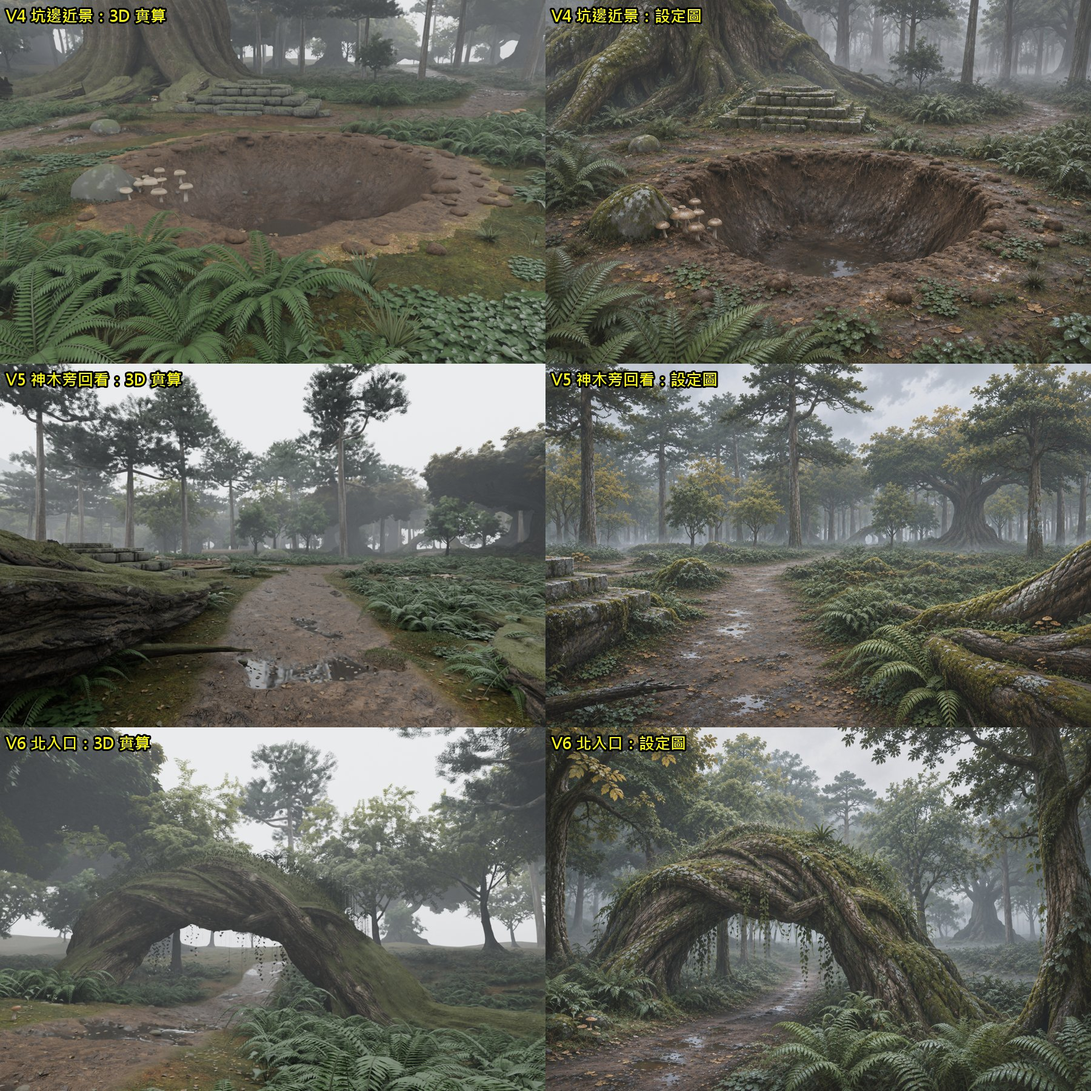
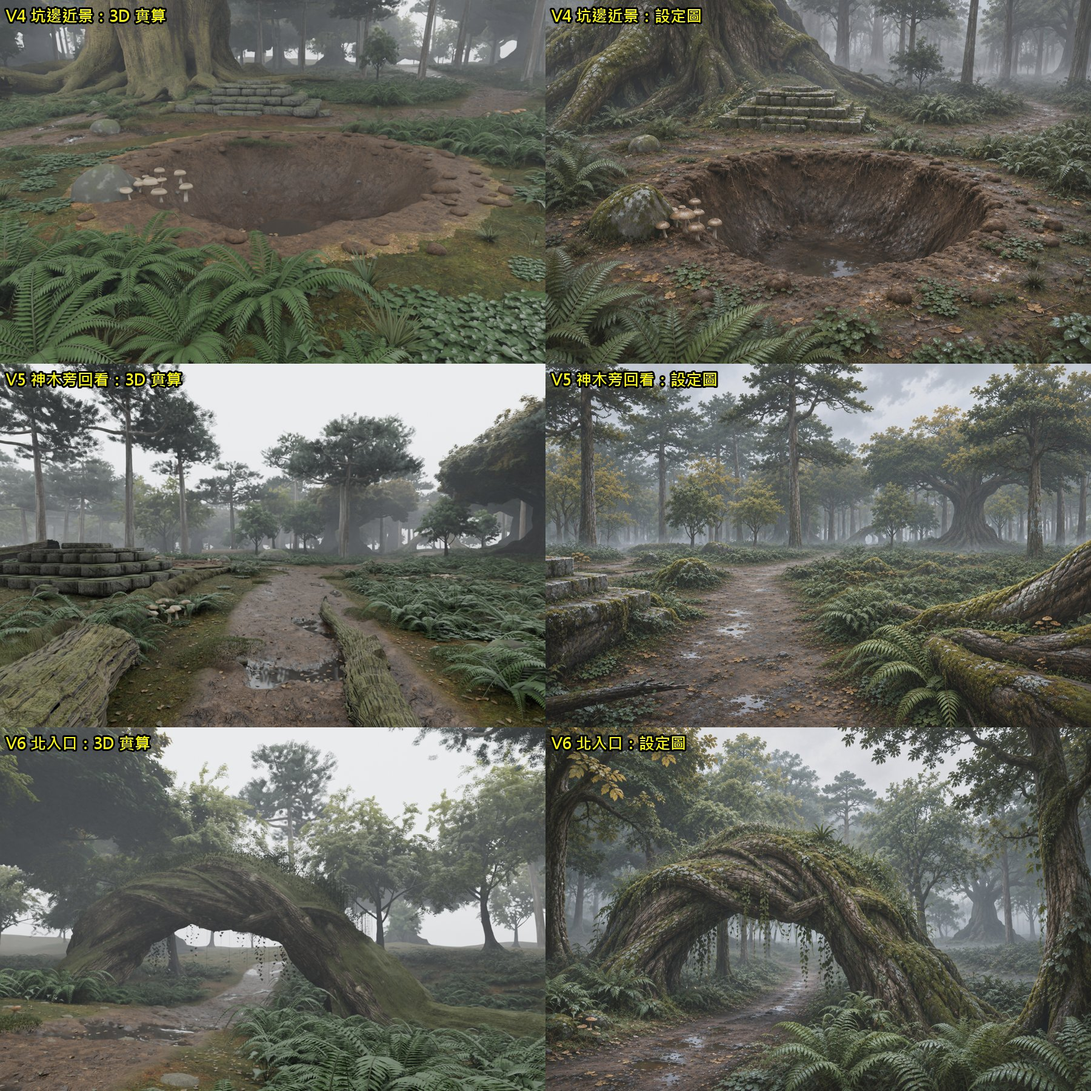
D2: god tree v006 - 8 ropes of varied thickness with deep gaps, waist, arching roots, counter-twisted crossing ropes, low right fork; roots follow terrain; arch-style dark bark with lichen flecks, moss streaks on rope backs, warm key light; old slab roots replaced

diff --git a/art/source/core-d2-v1/gt01_braid_trunk.py b/art/source/core-d2-v1/gt01_braid_trunk.py
@@ -9,7 +9,7 @@ try:
     VS = float(sys.argv[-1])
 except ValueError:
     VS = .1
-ZCUT = 16.0
+ZCUT = 26.0   # 11/22：切在 16 m 會留一圈淺溝 → 切到分枝附近，下面整段都是新的股
 R = random.Random(11)
 t0 = time.time()
 with bpy.data.libraries.load(S + 'GT01_GodTree_v004_fused.blend', link=False) as (s, d):
@@ -33,72 +33,140 @@ def smooth(t): return t * t * (3 - 2 * t)
 STR = []   # 每股：[(point, radius, zsquash)]
 
 
-def main_strand(th0, Rg, Rend, rA, twist, seed):
+def R_OLD(z):   # 原本樹幹在各高度的半徑（gt_probe2 量的中位數）
+    zs = [14, 16, 20, 24, 28, 32, 40]
+    rs = [8.6, 8.0, 7.8, 7.4, 6.9, 6.6, 6.2]
+    return float(np.interp(z, zs, rs))
+
+
+def main_strand(th0, Rg, Rend, rA, twist, seed, arch=0.0, ride=0.0):
+    # v006（11/22 z1nnz「你講的都要改」）：粗細差三倍的粗繩、股之間留深縫、中段收腰、大根拱離地面
     pts = []
-    n = 160
-    # s 0→.45 樹幹段（z 24→6），.45→.7 外擴下彎（z 6→.4），.7→1 貼地延伸變細
+    n = 170
     for k in range(n + 1):
         s_ = k / n
         if s_ < .45:
             u = s_ / .45
-            z = lerp(24, 9, u)
-            rad = lerp(1.6, rA, smooth(min(1, u * 1.4)))
-            # z≥16：股的外緣貼著原本樹幹（半徑約 8.3）→ 接縫處不會凸出一圈；16 以下才慢慢鼓出來
-            r = lerp(8.3 - rad * .9, 8.8 - rA * .5, smooth(min(1, max(0, (16 - z) / 7))))
+            z = lerp(32, 9, u)
+            rad = lerp(.6 * rA, rA, smooth(u))
+            inset = lerp(1.0, .3, smooth(min(1, max(0, (32 - z) / 6))))
+            c_top = R_OLD(z) - rad * inset
+            waist = 5.4 + rad * .4 + ride
+            r9 = 6.4 + rA * .35 + ride
+            if z >= 24:   # 上段股貼著原本樹幹（切口在 26 m）→ 不會在交界留一圈屋簷
+                r = c_top
+            elif z >= 13:
+                r = lerp(waist, c_top, smooth(max(0, (z - 19) / 5)))
+            else:
+                r = lerp(r9, waist, smooth((z - 9) / 4))
             th = th0 + twist * u
             sq = 1.0
-        elif s_ < .7:
-            u = (s_ - .45) / .25
+        elif s_ < .68:
+            u = (s_ - .45) / .23
             z = 9 - 8.1 * math.sin(u * math.pi / 2)
-            r9 = 8.8 - rA * .5
+            r9 = 6.4 + rA * .35 + ride
             r = r9 + (Rg - r9) * (1 - math.cos(u * math.pi / 2))
-            rad = lerp(rA, rA * .55, u)
-            th = th0 + twist + twist * .35 * u
-            sq = lerp(1.0, .75, u)
+            rad = lerp(rA, rA * .6, u)
+            th = th0 + twist + twist * .3 * u
+            sq = lerp(1.0, .85, u)
         else:
-            u = (s_ - .7) / .3
-            z = .9 - .5 * u if u < .7 else .55 - 1.6 * ((u - .7) / .3) ** 1.5
+            u = (s_ - .68) / .32
+            hump = arch * math.sin(math.pi * min(1, u / .6))   # 大根拱起來離開地面，看得到下面的陰影
+            z = (.9 + hump) if u < .75 else (.9 - 2.2 * ((u - .75) / .25) ** 1.5)
             r = lerp(Rg, Rend, u)
-            rad = rA * .55 * (1 - .85 * u ** 1.2)
-            th = th0 + twist * 1.35 + twist * .25 * u
-            sq = .7
-        wob = Vector((noise.noise(Vector((s_ * 6, seed, 0))), noise.noise(Vector((s_ * 6, seed, 7))), 0)) * (.6 if s_ > .4 else .25)
+            rad = rA * .6 * (1 - .85 * u ** 1.2)
+            th = th0 + twist * 1.3 + twist * .2 * u
+            sq = .85
+        wob = Vector((noise.noise(Vector((s_ * 6, seed, 0))), noise.noise(Vector((s_ * 6, seed, 7))), 0)) * (.6 if s_ > .4 else .3)
         pts.append((Vector((math.cos(th) * r, math.sin(th) * r, z)) + wob, rad, sq))
     return pts
 
 
-N = 16   # 11/22：股少一點、粗細差大一點，地面的根才分得開（22 股會黏成一整圈裙子）
-TW = 1.0
+N = 8
+TW = 1.1
 roots = []
+RADS = [3.6, 3.3, 3.0, 2.6, 2.2, 1.9, 1.6, 1.4]
+R.shuffle(RADS)
 for i in range(N):
-    th0 = 2 * math.pi * i / N + R.uniform(-.08, .08)
-    long_ = R.random() < .55
-    Rg = R.uniform(16, 21) if long_ else R.uniform(13, 16)
-    Rend = Rg + (R.uniform(14, 24) if long_ else R.uniform(5, 10))
-    big = R.random() < .55
-    pts = main_strand(th0, Rg + (2 if big else -1), Rend, R.uniform(2.4, 2.9) if big else R.uniform(1.4, 1.9), TW * R.uniform(.8, 1.15), i * 3.1)
+    th0 = 2 * math.pi * i / N + R.uniform(-.12, .12)
+    rA = RADS[i]
+    big = rA > 2.4
+    Rg = R.uniform(15, 19) if big else R.uniform(12, 15)
+    Rend = Rg + (R.uniform(16, 26) if big else R.uniform(8, 14))
+    pts = main_strand(th0, Rg, Rend, rA, TW * R.uniform(.85, 1.15), i * 3.1, arch=R.uniform(.9, 1.6) if big else R.uniform(.2, .6))
+    STR.append(pts)
+    roots.append(pts)
+# 兩股反向扭的細繩：跨過別的股（設定圖有一股壓過另一股）
+for i, (th0, rA) in enumerate(((.9, 1.4), (3.6, 1.2))):
+    pts = main_strand(th0, 13, 24, rA, -1.0, 50 + i, arch=.4, ride=1.9)
     STR.append(pts)
     roots.append(pts)
 
+# 兩條長根一路爬到祭壇邊（設定圖 V3、V4）
+_ALT = math.atan2(7.0 - 30.0, 7.0 + 24.0)
+for dth, Rend_, rA_ in ((-.07, 33, 2.4), (.09, 29, 2.0)):
+    pts = main_strand(_ALT + dth - .24, 17, Rend_, rA_, .15, 77 + dth * 10, arch=1.0)
+    STR.append(pts)
+    roots.append(pts)
+
+# 右邊低分叉：一根大枝在 7 m 高就從樹幹分出去往右上走，中間留空看得到天空（V3 右側；相機在 (+28,-45) 往北看 → 右邊是 +x）
+_fk = [(5.5, 5), (7.5, 10), (10.0, 14.5), (13.5, 19), (16.0, 24.5), (19.5, 29), (21.5, 34)]
+_fth = -.15
+pts = []
+for k in range(101):
+    u = k / 100
+    rr = float(np.interp(u * 6, range(7), [a for a, b in _fk])); zz = float(np.interp(u * 6, range(7), [b for a, b in _fk]))
+    th = _fth + .25 * u + .12 * math.sin(u * 7)   # 彎彎曲曲，不要一根直棍
+    pts.append((Vector((math.cos(th) * rr, math.sin(th) * rr, zz + .8 * math.sin(u * 9))), lerp(3.4, .9, u ** .8), 1.0))
+STR.append(pts)
+
+# 樹瘤：幾顆短胖的瘤長在股上
+for i in range(0):   # 樹瘤拿掉：看起來像繩結
+    th = R.uniform(0, 6.28); zc = R.uniform(4, 15)
+    rc = 4.6 + 3.0 + (2.0 if zc < 9 else 0)
+    c = Vector((math.cos(th) * rc, math.sin(th) * rc, zc))
+    dv = Vector((-math.sin(th), math.cos(th), .6)).normalized()
+    pts = [(c + dv * lerp(-1.0, 1.0, k / 10), 1.3 * math.sin(math.pi * k / 10) ** .5 + .05, 1.0) for k in range(11)]
+    STR.append(pts)
+
 # 支根：從主根外擴段分岔出去
 for i, pts in enumerate(roots):
-    for _ in range(R.choice((1, 1, 2))):
-        k0 = R.randint(95, 125)
+    for _ in range(R.choice((2, 3, 3))):   # 11/22 根要更多（設定圖往四面八方爬）
+        k0 = R.randint(100, 130)
         p0, r0, _s = pts[k0]
         dirv = pts[k0 + 6][0] - p0
         dirv.z = 0
         dirv.normalize()
         side = Vector((-dirv.y, dirv.x, 0)) * R.choice((-1, 1))
-        L = R.uniform(6, 14)
+        L = R.uniform(8, 20)
         sub = []
         n = 60
         for k in range(n + 1):
             u = k / n
             q = p0 + dirv * (L * u) + side * (L * .45 * u ** .8)
-            q.z = lerp(p0.z, -.8, u ** 1.3)
+            q.z = lerp(p0.z, .55, min(1, u * 3)) if u < .75 else .55 - 1.4 * ((u - .75) / .25) ** 1.5   # 貼地爬、最後才鑽進土裡
             q += Vector((noise.noise(Vector((u * 5, i, 3))), noise.noise(Vector((u * 5, i, 9))), 0)) * .4
-            sub.append((q, r0 * .55 * (1 - .85 * u), .7))
+            sub.append((q, r0 * .6 * (1 - .85 * u), .7))
         STR.append(sub)
+
+# 細根：從主根之間的樹幹底部冒出來、彎彎曲曲貼地爬出去（根與根之間不要只是平滑的面）
+for i in range(20):
+    th = 2 * math.pi * (i + .5) / 20 + R.uniform(-.1, .1)
+    L = R.uniform(9, 24)
+    r0 = R.uniform(.7, 1.2)
+    p0 = Vector((math.cos(th) * 7.0, math.sin(th) * 7.0, 2.2))
+    dirv = Vector((math.cos(th), math.sin(th), 0))
+    side = Vector((-dirv.y, dirv.x, 0))
+    sub = []
+    n = 70
+    curl = R.uniform(-.35, .35)
+    for k in range(n + 1):
+        u = k / n
+        q = p0 + dirv * (L * u) + side * (L * curl * u * u)
+        q += side * noise.noise(Vector((u * 4, i * 1.7, 5))) * 1.2
+        q.z = lerp(2.2, .5, min(1, u * 4) ** .7) if u < .8 else .5 - 1.3 * ((u - .8) / .2) ** 1.5
+        sub.append((q, r0 * (1 - .8 * u) + .08, .75))
+    STR.append(sub)
 
 # 樹幹表面細筋：主筋之間的溝裡，像一束束扭在一起
 for i in range(0):   # 11/22 表面細筋拿掉：頂端變成一顆顆香腸頭
@@ -116,6 +184,21 @@ for i in range(0):   # 11/22 表面細筋拿掉：頂端變成一顆顆香腸頭
         rad = 1.1 * math.sin(math.pi * u) ** .6 + .05
         pts.append((Vector((math.cos(th) * r, math.sin(th) * r, z)), rad, 1.0))
     STR.append(pts)
+# 11/22：場景地面在神木四周比 0 高 0.3–2 m → 根全被埋掉。照場景地形（樹的區域座標）把低處的點往上抬，根貼著實際地面爬
+_GH = np.load(S + 'GT01_ground_rel.npy')
+
+
+def gz(x, y):
+    fx = min(99.999, max(0, x + 50)); fy = min(99.999, max(0, y + 50))
+    ix, iy = int(fx), int(fy); tx, ty = fx - ix, fy - iy
+    return (_GH[iy, ix] * (1 - tx) * (1 - ty) + _GH[iy, ix + 1] * tx * (1 - ty) + _GH[iy + 1, ix] * (1 - tx) * ty + _GH[iy + 1, ix + 1] * tx * ty)
+
+
+for pts in STR:
+    for k, (p, rad, sq) in enumerate(pts):
+        wl = min(1.0, max(0.0, (7 - p.z) / 5))
+        if wl > 0:
+            pts[k] = (Vector((p.x, p.y, p.z + (gz(p.x, p.y) - .3) * wl)), rad, sq)
 print('STRANDS', len(STR))
 
 SEG = 20
@@ -161,8 +244,8 @@ def tube(bm_, pts):
 
 
 FR = [tube(bm, pts) for pts in STR]
-core = bmesh.ops.create_cone(bm, cap_ends=True, segments=32, radius1=7.4, radius2=6.0, depth=21)
-bmesh.ops.translate(bm, verts=core['verts'], vec=Vector((0, 0, 8.5)))
+core = bmesh.ops.create_cone(bm, cap_ends=True, segments=32, radius1=5.5, radius2=4.2, depth=31)   # 核心細一點：股之間的縫要深、要暗
+bmesh.ops.translate(bm, verts=core['verts'], vec=Vector((0, 0, 13.5)))
 bmesh.ops.recalc_face_normals(bm, faces=bm.faces)
 bm.to_mesh(w.data)
 bm.free()
@@ -227,7 +310,7 @@ U = np.zeros(nv); V = np.zeros(nv)
 for i in range(nv):
     x, y, z = co[i]
     best = None
-    if z < ZCUT + 9:
+    if z < 36:
         pv = Vector((x, y, z))
         for (q, idx, dist) in kd.find_n(pv, 6):
             sd = dist - meta[idx][1]
